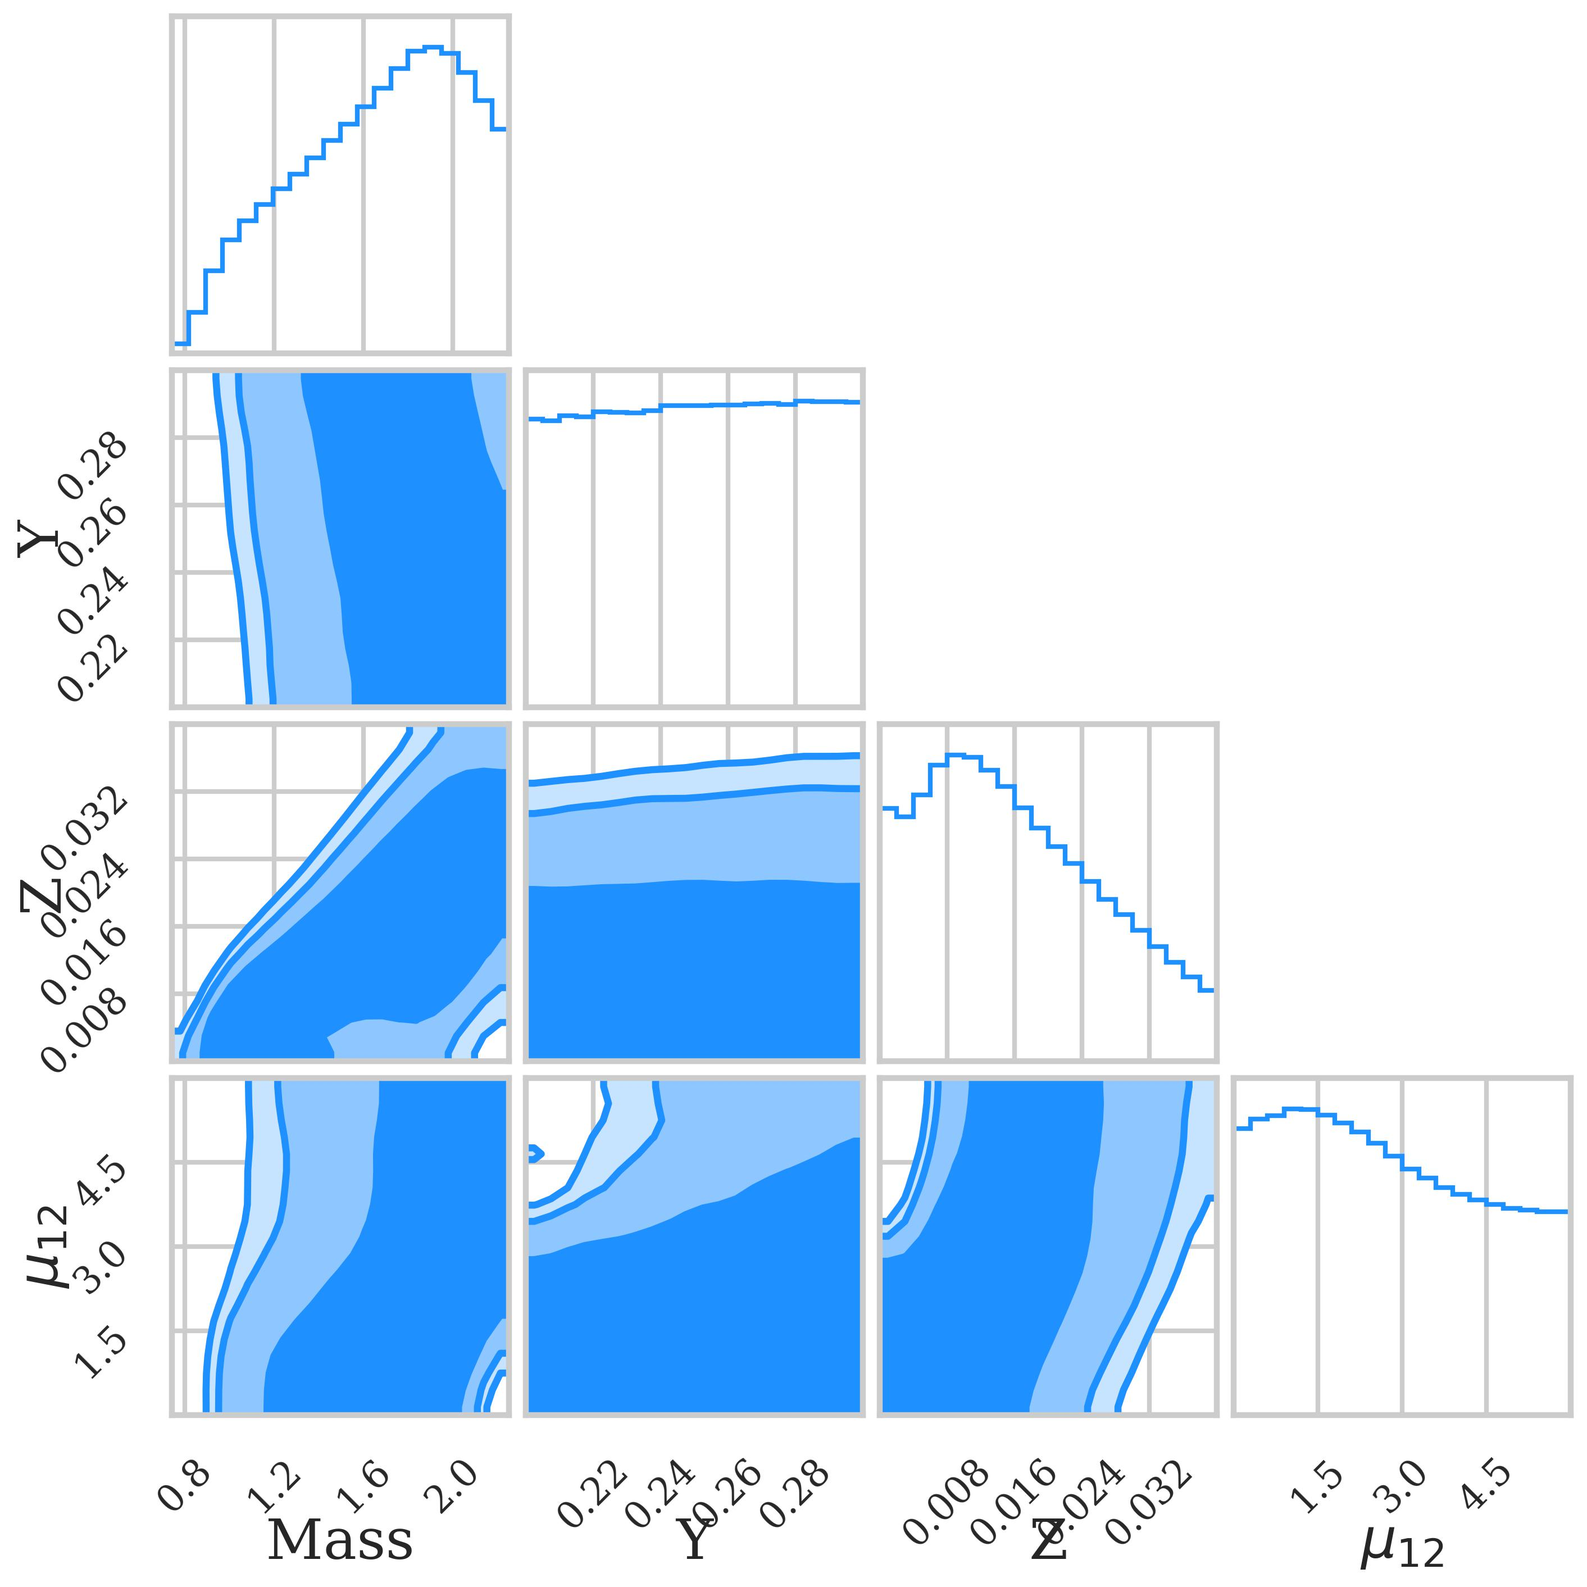
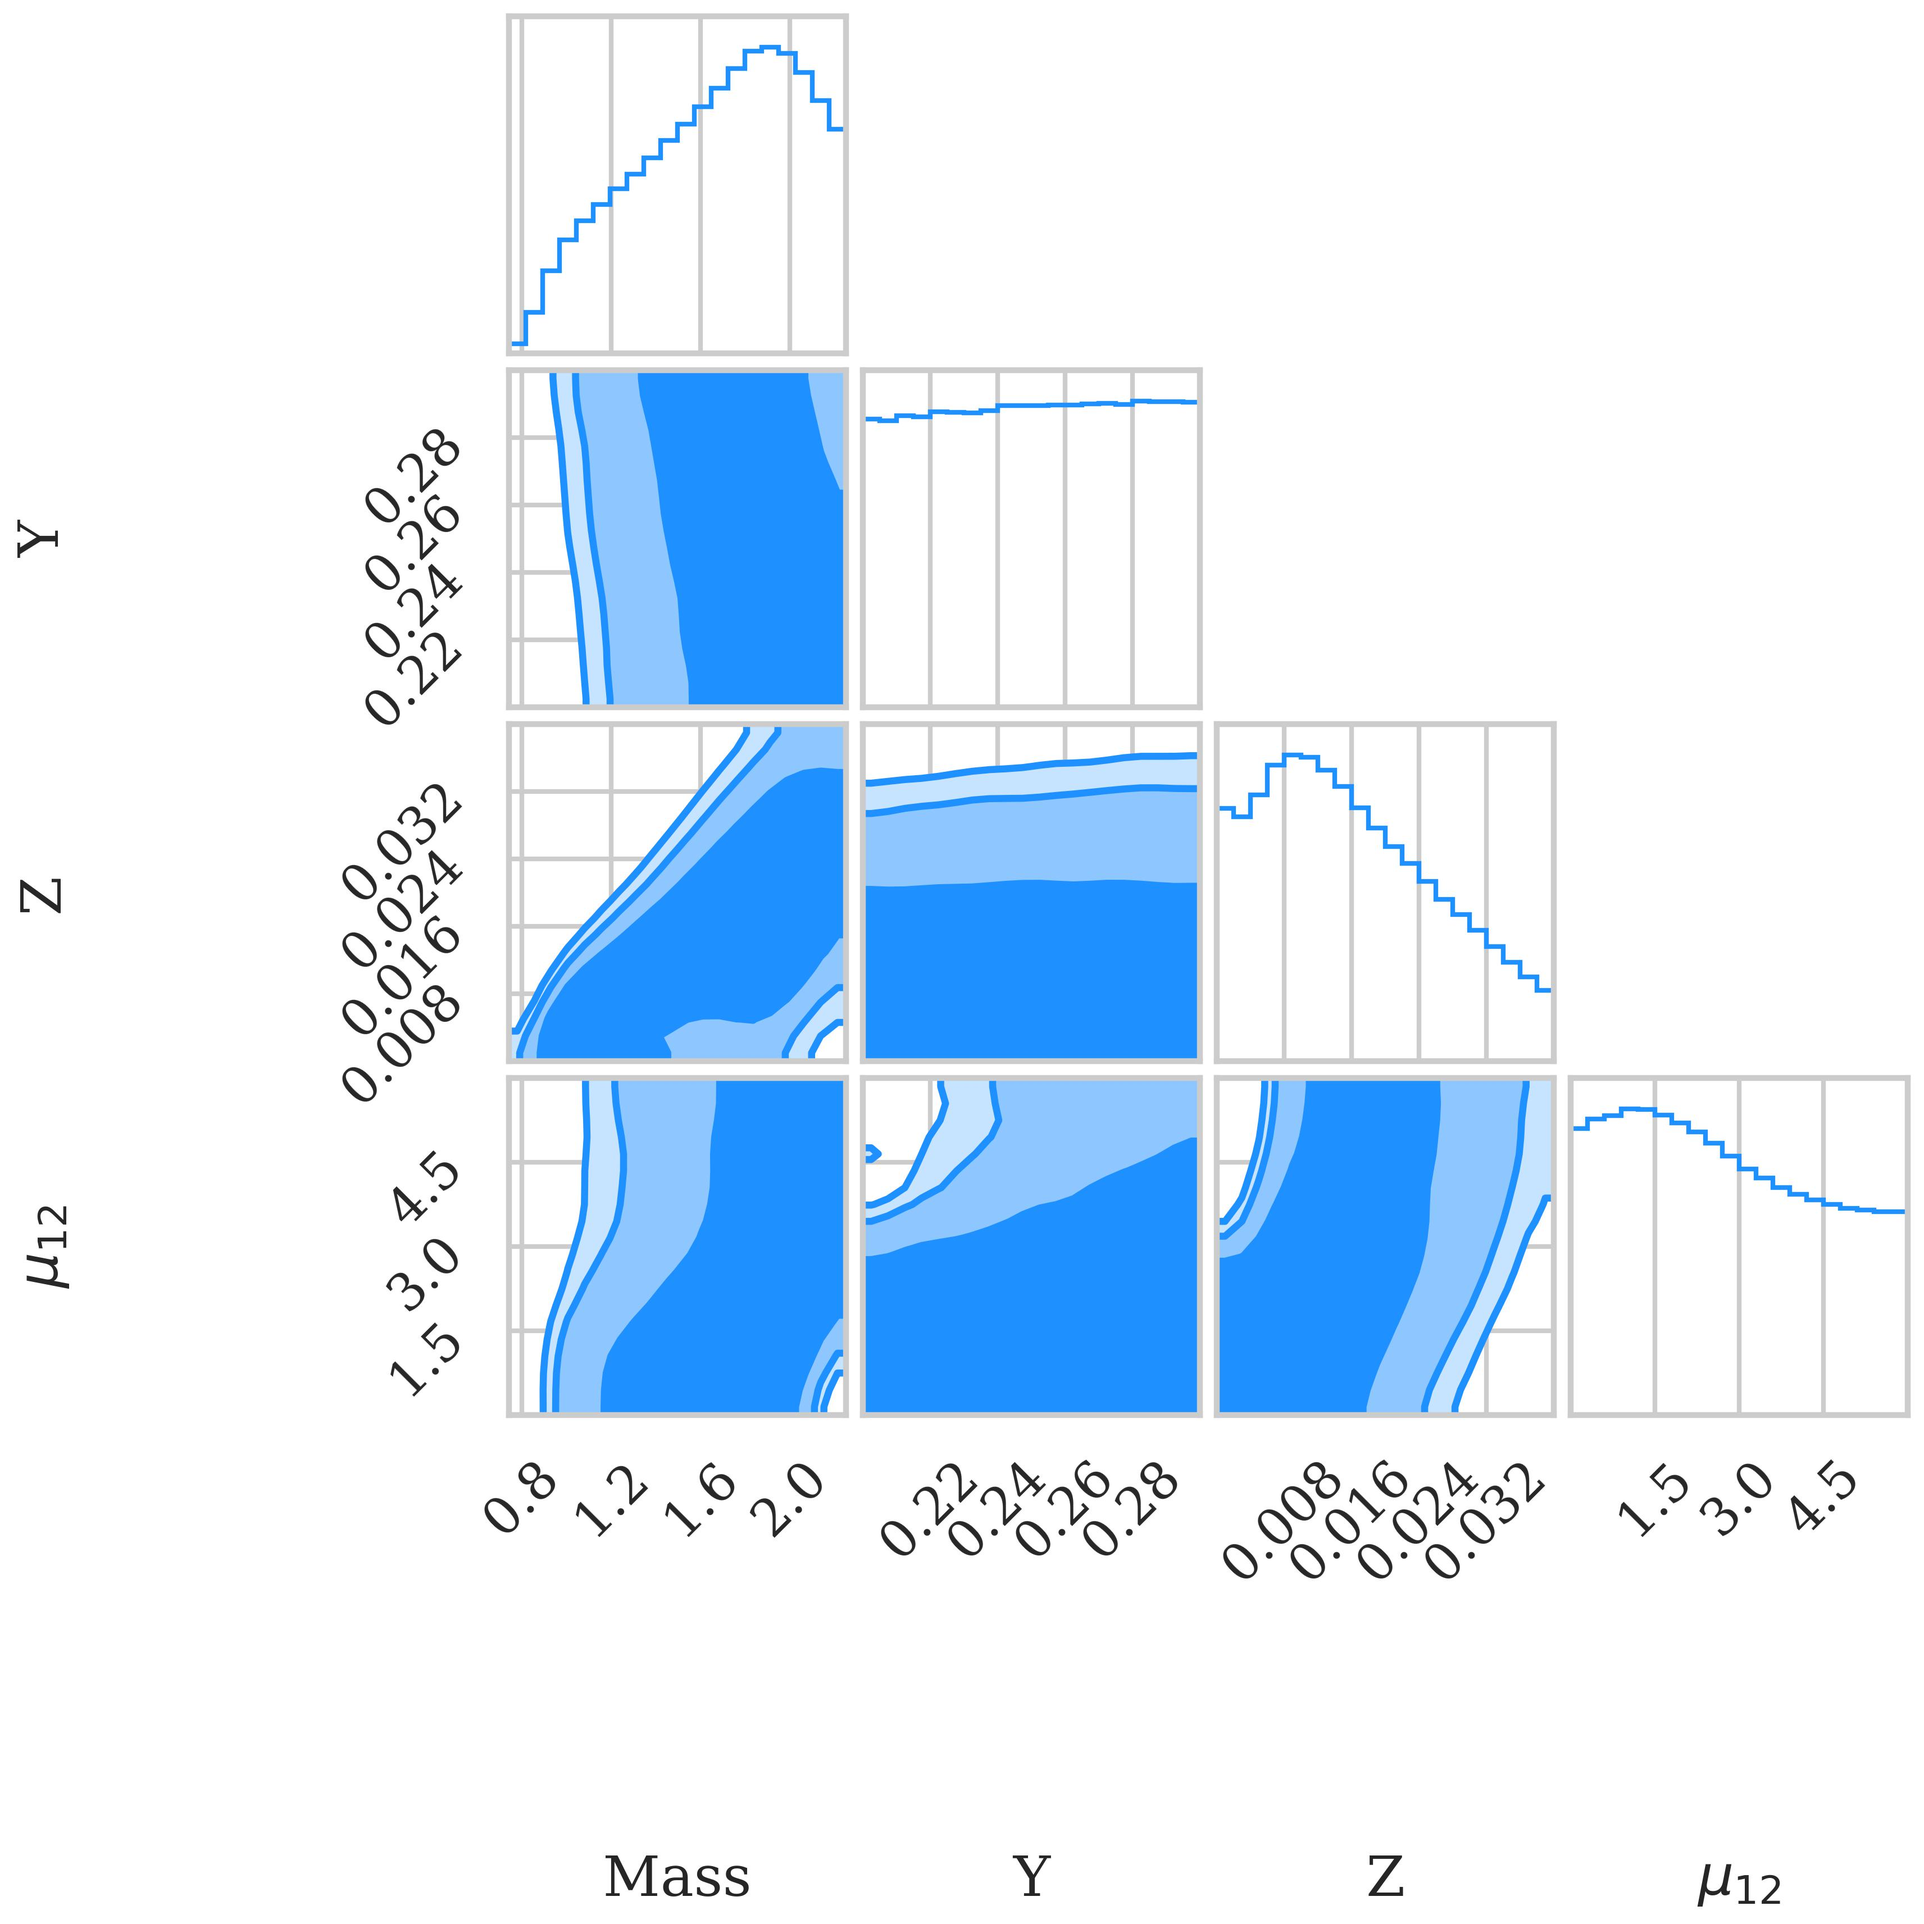
try labelpad

diff --git a/mcmc/analyzeMCMC.py b/mcmc/analyzeMCMC.py
@@ -32,10 +32,11 @@ def plotCorner(chain, log):
                         smooth=True,
                         plot_datapoints=False,
                         fill_contours=True,
-                        levels=[0.68, 0.90, 0.95])
+                        levels=[0.68, 0.90, 0.95],
+                        labelpad=1)
 
-    for ax in fig.get_axes():
-        ax.tick_params(axis='both', labelsize=16)
+    #for ax in fig.get_axes():
+    #    ax.tick_params(axis='both', labelsize=16)
 
     fig.savefig("corner_pretty.jpeg", bbox_inches='tight', transparent=False)
 
